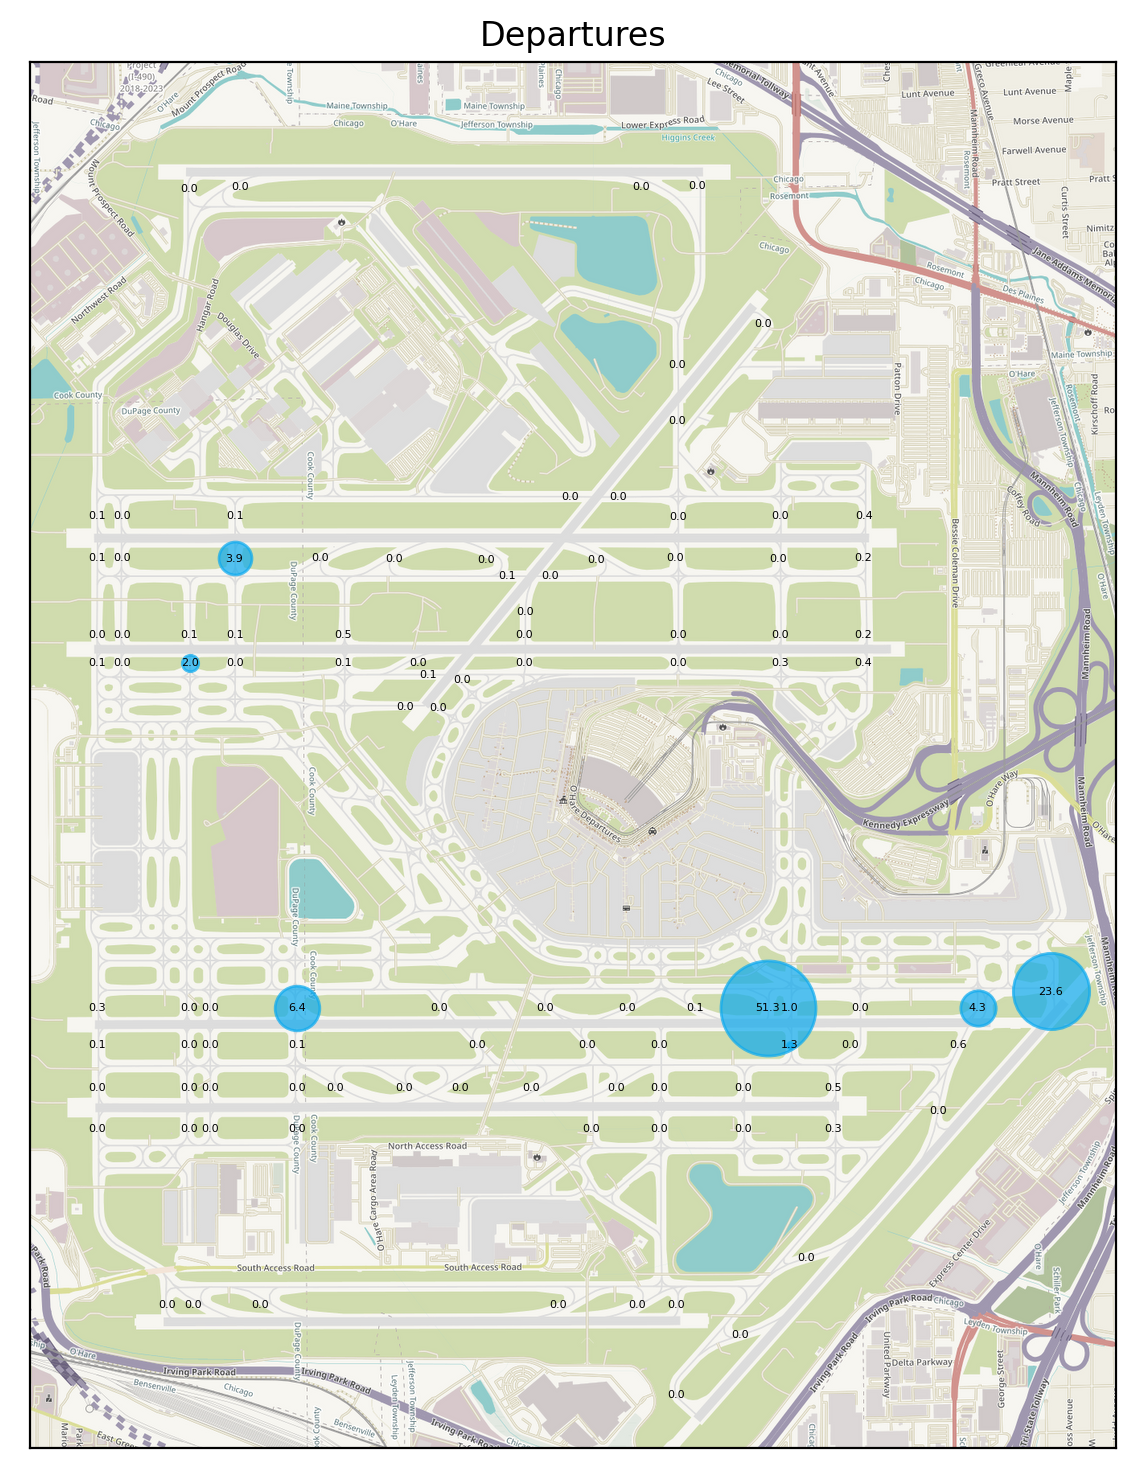
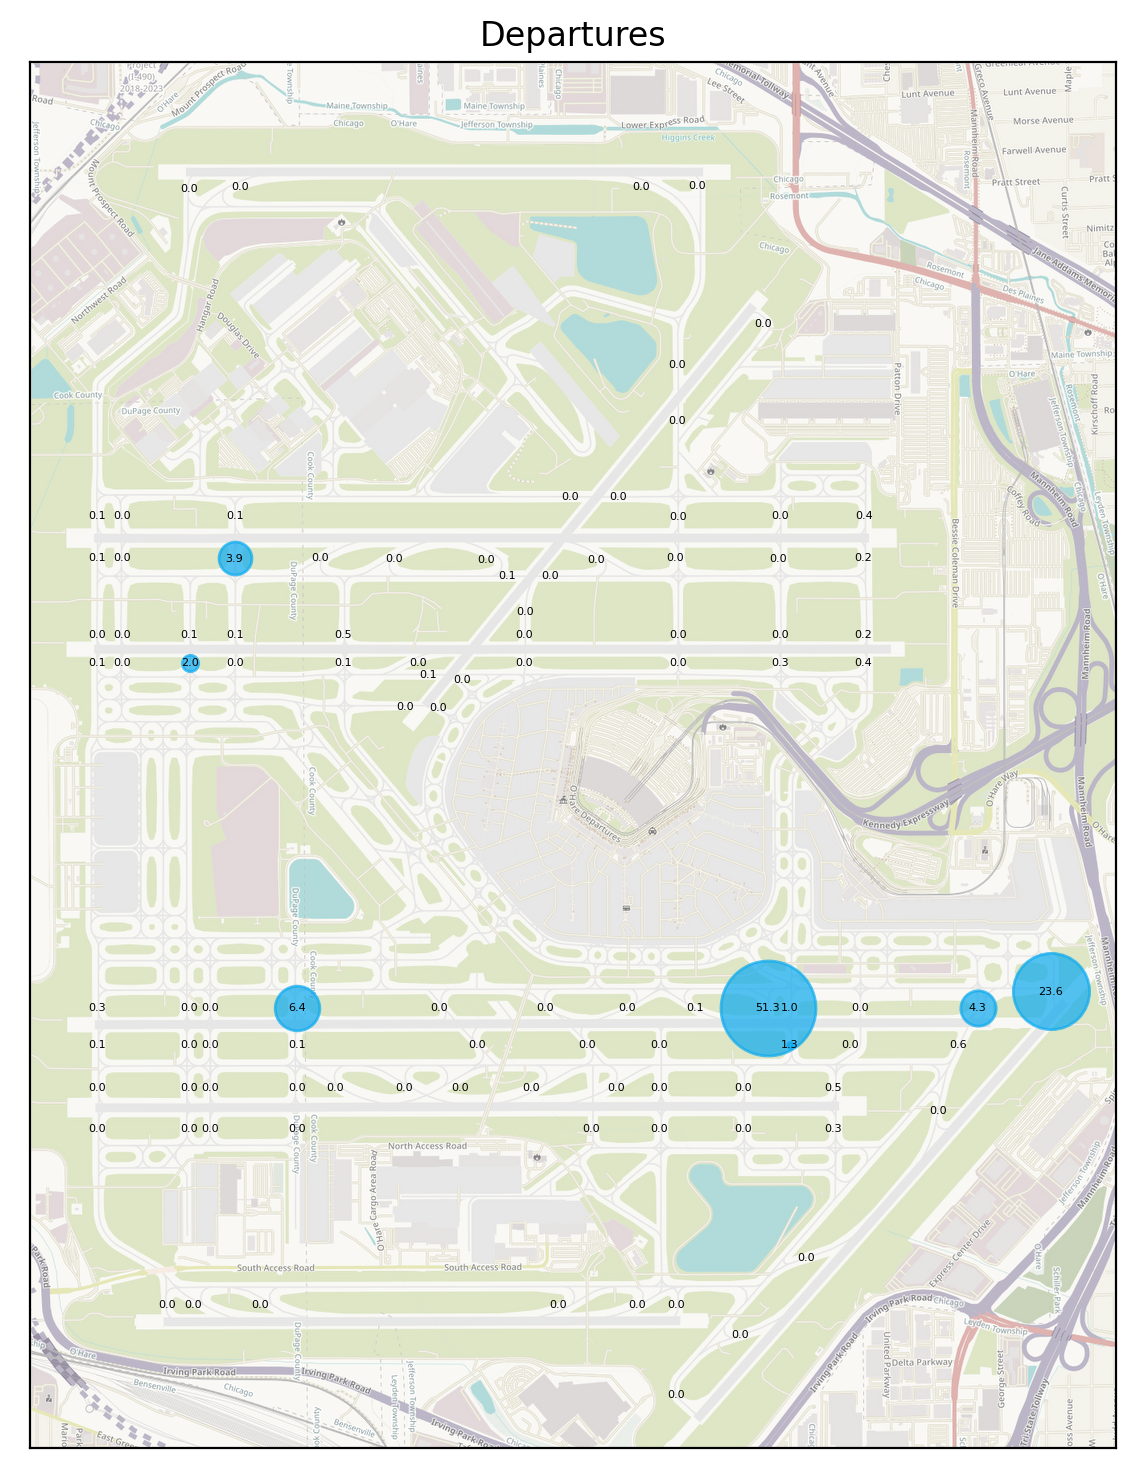
dimmed freq plots

diff --git a/dataCollection/plotting/makeItPretty.py b/dataCollection/plotting/makeItPretty.py
@@ -201,6 +201,8 @@ def plotFrequenciesColor(airport, exitPercent, departures=True, show=False, date
 
     plotter = tmb.Plotter(extent, t, width=1200)
     plotter.plot(ax, t)
+    
+    ax.fill_between([0, 1], [0, 0], [1, 1], transform=ax.transAxes, color="white", alpha=0.3)
 
     normalizedPercent = (exitPercent - np.min(exitPercent)) / (np.max(exitPercent) - np.min(exitPercent))
 
@@ -269,6 +271,8 @@ def plotFrequenciesSize(airport, exitPercent, departures=True, show=False, date=
 
     plotter = tmb.Plotter(extent, tile_provider=t, width=1200)
     plotter.plot(ax, t)
+    
+    ax.fill_between([0, 1], [0, 0], [1, 1], transform=ax.transAxes, color="white", alpha=0.3)
 
     for i, ex in enumerate(airport.exitLocations):
         long = np.average((ex[0], ex[1]))

diff --git a/dataCollection/actualData/getResults.py b/dataCollection/actualData/getResults.py
@@ -10,9 +10,6 @@ table = True
 debug = False
 
 
-dateList = ["11-22", "11-23", "11-25", "11-27", "11-28"]
-
-
 def getResultsSAN():
     airport = SanDiego()
 
